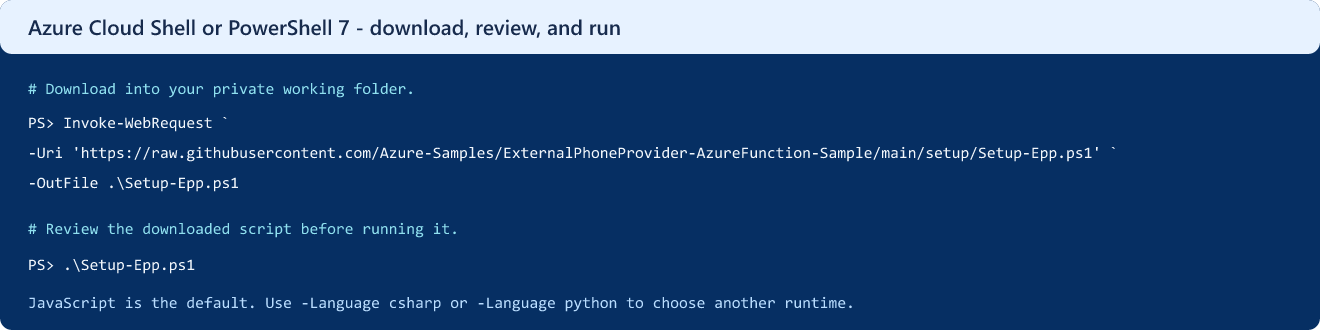
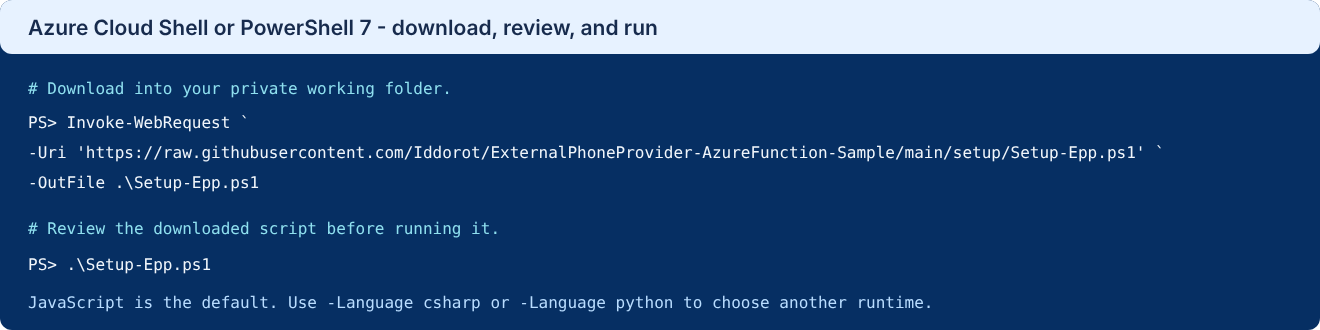
Point repository references to Iddorot/ExternalPhoneProvider-AzureFunction-Sample
Replace Azure-Samples repository links, default SourceRepository values,
test fixtures and the setup screenshot with this fork.

Claude-Session: https://claude.ai/code/session_011tTzVxpbvKQMUAnVj9Qbz2

diff --git a/setup/docs/README.md b/setup/docs/README.md
@@ -88,7 +88,7 @@ Download the launcher into a private working folder:
 
 ```powershell
 Invoke-WebRequest `
-    -Uri 'https://raw.githubusercontent.com/Azure-Samples/ExternalPhoneProvider-AzureFunction-Sample/main/setup/Setup-Epp.ps1' `
+    -Uri 'https://raw.githubusercontent.com/Iddorot/ExternalPhoneProvider-AzureFunction-Sample/main/setup/Setup-Epp.ps1' `
     -OutFile .\Setup-Epp.ps1
 ```
 
@@ -334,11 +334,11 @@ For deliberate replacement, use `-CertificateAction Replace` instead.
 
 ## Source versioning
 
-Defaults are `-SourceRepository Azure-Samples/ExternalPhoneProvider-AzureFunction-Sample` and
+Defaults are `-SourceRepository Iddorot/ExternalPhoneProvider-AzureFunction-Sample` and
 `-SourceRef main`. Setup resolves one commit for its supporting scripts, Bicep templates,
 catalogs, and profiles.
 
-Packages come from stable [GitHub releases](https://github.com/Azure-Samples/ExternalPhoneProvider-AzureFunction-Sample/releases):
+Packages come from stable [GitHub releases](https://github.com/Iddorot/ExternalPhoneProvider-AzureFunction-Sample/releases):
 
 | Runtime | Tag format |
 | --- | --- |

diff --git a/README.md b/README.md
@@ -75,7 +75,7 @@ See the [documentation index](docs/README.md) for all guides.
 
 For provider access and account issues, use your provider's support channel. For Microsoft Entra ID
 configuration, use Microsoft support. Report sample issues in
-[GitHub Issues](https://github.com/Azure-Samples/ExternalPhoneProvider-AzureFunction-Sample/issues).
+[GitHub Issues](https://github.com/Iddorot/ExternalPhoneProvider-AzureFunction-Sample/issues).
 
 Keep credentials, phone numbers, OTPs, encrypted request bodies, and raw provider responses out
 of issues and support requests.

diff --git a/setup/docs/Troubleshooting.md b/setup/docs/Troubleshooting.md
@@ -177,7 +177,7 @@ registration and Function-reference update.
 ### Download or checksum failure
 
 Check access to the selected stable
-[language release](https://github.com/Azure-Samples/ExternalPhoneProvider-AzureFunction-Sample/releases).
+[language release](https://github.com/Iddorot/ExternalPhoneProvider-AzureFunction-Sample/releases).
 The tag suffix must match `javascript`, `dotnet`, or `python`. Use `released-package.zip` and
 `SHA256SUMS.txt` from that same release.
 

diff --git a/TECHNICAL.md b/TECHNICAL.md
@@ -38,7 +38,7 @@ reference. See [setup details](setup/docs/README.md).
 
 Guided setup downloads and publishes the package automatically.
 For manual deployment, select a stable language release from
-[GitHub Releases](https://github.com/Azure-Samples/ExternalPhoneProvider-AzureFunction-Sample/releases):
+[GitHub Releases](https://github.com/Iddorot/ExternalPhoneProvider-AzureFunction-Sample/releases):
 
 | Runtime | Release tag | Package contents |
 | --- | --- | --- |

diff --git a/docs/GETTING-STARTED.md b/docs/GETTING-STARTED.md
@@ -31,7 +31,7 @@ Open PowerShell in a private working folder and download the launcher:
 
 ```powershell
 Invoke-WebRequest `
-    -Uri 'https://raw.githubusercontent.com/Azure-Samples/ExternalPhoneProvider-AzureFunction-Sample/main/setup/Setup-Epp.ps1' `
+    -Uri 'https://raw.githubusercontent.com/Iddorot/ExternalPhoneProvider-AzureFunction-Sample/main/setup/Setup-Epp.ps1' `
     -OutFile .\Setup-Epp.ps1
 ```
 

diff --git a/docs/README.md b/docs/README.md
@@ -38,4 +38,4 @@
 
 - [Provider access and support](ONBOARDING.md#before-deployment)
 - [Troubleshooting and safe diagnostic evidence](../setup/docs/Troubleshooting.md#after-deployment-triage)
-- [Report a sample issue](https://github.com/Azure-Samples/ExternalPhoneProvider-AzureFunction-Sample/issues)
+- [Report a sample issue](https://github.com/Iddorot/ExternalPhoneProvider-AzureFunction-Sample/issues)
